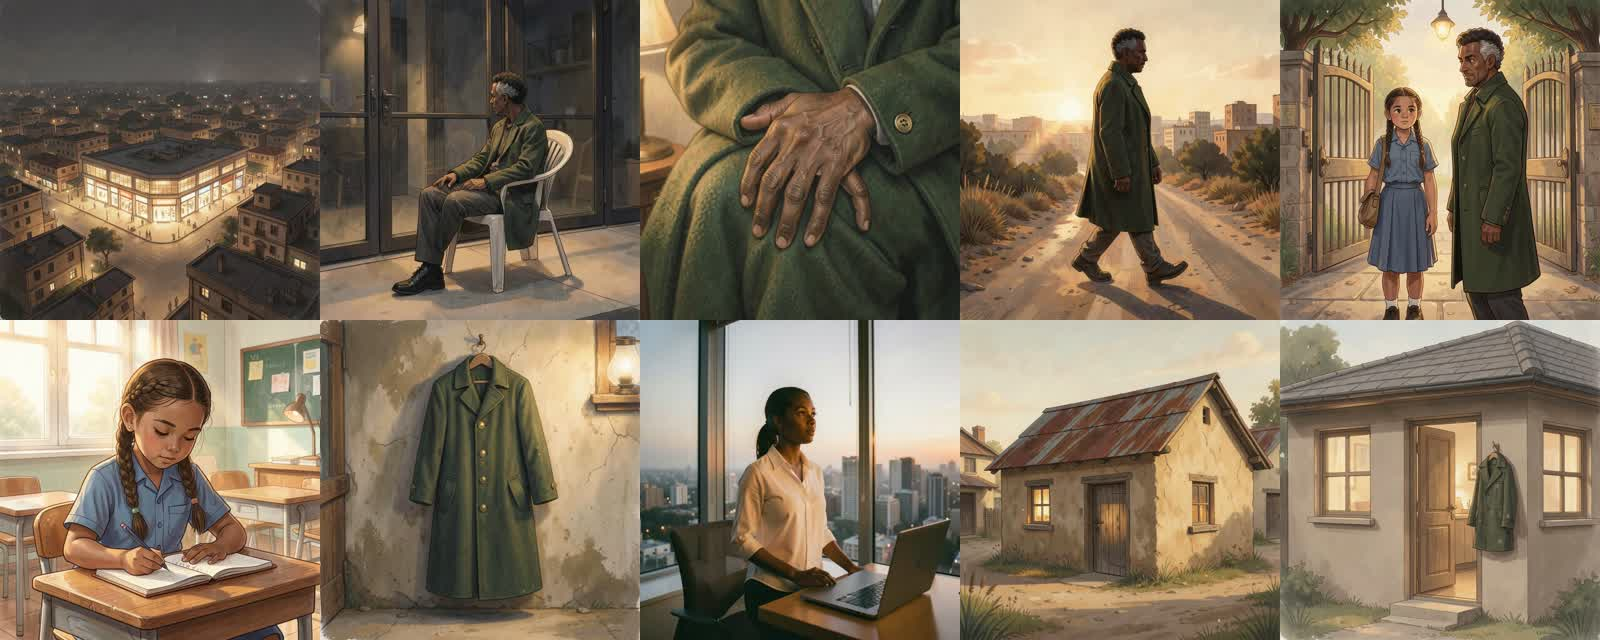
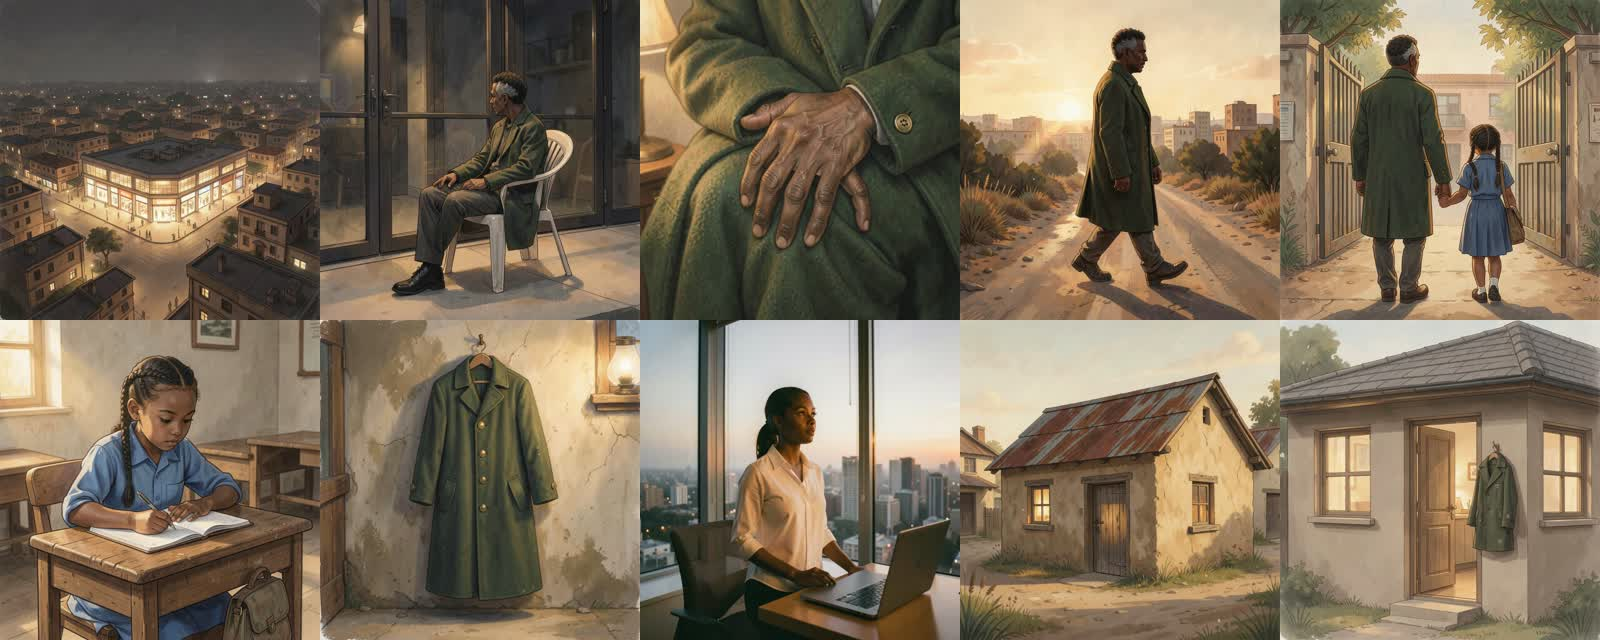
Keyframes final: shot 5 from behind, shot 6 without reference (skin tone); E10-E11

Changed region(s): [[0.0, 0.5, 0.2188, 1.0], [0.7812, 0.0, 1.0, 0.5]]

diff --git a/pipeline/keyframes.py b/pipeline/keyframes.py
@@ -120,14 +120,52 @@ def run_refs(only: str | None = None) -> None:
 
 # ---------------------------------------------------------------- keyframes
 
+def shot_refs(sb: dict, shot: dict) -> list[Path]:
+    """Reference images sent with a shot (none if the shot sets "use_references": false)."""
+    if not shot.get("use_references", True):
+        return []
+    return [ROOT / sb["characters"][c]["reference_image"] for c in shot.get("characters", [])]
+
+
 def shot_prompt(sb: dict, shot: dict) -> str:
     who = " ".join(f"The {c.replace('_', ' ')} is {sb['characters'][c]['description']}."
                    for c in shot.get("characters", []))
     # v1 said "Keep each person exactly as in the reference image(s)" and the model also copied
     # the reference POSE (girl standing in the classroom, shot 6). v2 limits what is copied (E9).
     keep = (" From the reference image(s) take only the face, hair, skin tone and clothes;"
-            " the pose, action and camera angle must follow this description.") if shot.get("characters") else ""
+            " the pose, action and camera angle must follow this description.")         if shot.get("characters") and shot.get("use_references", True) else ""
     return f"{shot['image_prompt']}. {who}{keep} {shot['size']} shot. {sb['style_block']}"
+
+
+VARIANT_SEED_STEP = 1000
+
+
+def run_variants(shot_id: int, n: int = 3) -> None:
+    """Make n candidates of one shot (seeds seed, seed+1000, ...) to choose from.
+
+    Each candidate is saved under exactly the name the normal run would use for that seed,
+    so choosing one = setting that shot's "seed" in storyboard.json; the next run is a cache hit.
+    """
+    load_env()
+    sb = load()
+    shot = next(s for s in sb["shots"] if s["id"] == shot_id)
+    refs = shot_refs(sb, shot)
+    prompt = shot_prompt(sb, shot)
+    images = []
+    for k in range(n):
+        seed = shot["seed"] + k * VARIANT_SEED_STEP
+        h = input_hash(MODEL, prompt, SIZE, seed, [file_hash(r) for r in refs])
+        out = KF_DIR / f"shot_{shot_id:02d}_{h}.jpg"
+        if out.exists():
+            print(f"  shot {shot_id:02d} seed {seed}: cached")
+        else:
+            print(f"  shot {shot_id:02d} seed {seed}: GENERATING")
+            flux(prompt, seed, out, refs, stage="keyframes:variants", shot=shot_id)
+        images.append(out)
+    sheet = KF_DIR / f"shot_{shot_id:02d}_variants.jpg"
+    contact_sheet(images, sheet, cols=n)
+    seeds = [shot["seed"] + k * VARIANT_SEED_STEP for k in range(n)]
+    print(f"  pick from {sheet.relative_to(ROOT).as_posix()} (left to right = seeds {seeds})")
 
 
 def run(only_shot: int | None = None) -> dict:
@@ -142,7 +180,7 @@ def run(only_shot: int | None = None) -> dict:
     manifest, new_calls, images = {}, 0, []
     for shot in sb["shots"]:
         sid = shot["id"]
-        refs = [ROOT / sb["characters"][c]["reference_image"] for c in shot.get("characters", [])]
+        refs = shot_refs(sb, shot)
         prompt = shot_prompt(sb, shot)
         h = input_hash(MODEL, prompt, SIZE, shot["seed"], [file_hash(r) for r in refs])
         out = KF_DIR / f"shot_{sid:02d}_{h}.jpg"

diff --git a/pipeline/__main__.py b/pipeline/__main__.py
@@ -5,6 +5,7 @@
     python -m pipeline radio           narration + placeholder music on black (user test 1)
     python -m pipeline refs            character reference candidates (pick one per character)
     python -m pipeline keyframes       one image per shot (cached: only changed shots regenerate)
+    python -m pipeline keyframes --shot 5 --variants 3   candidates for one shot; pick = set its seed
     python -m pipeline all             everything above that is ready, in order
 """
 from __future__ import annotations
@@ -20,6 +21,7 @@ def main() -> None:
     p.add_argument("command", choices=["validate", "narration", "radio", "refs", "keyframes", "all"])
     p.add_argument("--shot", type=int, help="narration/keyframes: only regenerate this shot")
     p.add_argument("--character", help="refs: only this character")
+    p.add_argument("--variants", type=int, help="keyframes --shot N: make this many candidates to pick from")
     args = p.parse_args()
 
     try:
@@ -48,7 +50,10 @@ def main() -> None:
     if args.command in ("keyframes", "all"):
         from pipeline import keyframes
         print("[keyframes]")
-        keyframes.run(only_shot=args.shot)
+        if args.variants and args.shot:
+            keyframes.run_variants(args.shot, args.variants)
+        else:
+            keyframes.run(only_shot=args.shot)
 
 
 if __name__ == "__main__":

diff --git a/EXPERIMENTS.md b/EXPERIMENTS.md
@@ -125,3 +125,22 @@ Evidence: matching `"experiment": "E…"` lines in `runs.jsonl`.
 - **v3 change:** shot 3 has no character reference and asks for "hand ... no face in the frame"; the child's description gets "with dark brown skin".
 - **v3 result:** shot 3 fixed (hand on the coat, no face). The girl in 5 and 6 is **still lighter than her reference**; shot 5 lost the from-behind framing again. Only 3 images were regenerated: the cache kept the other 7.
 - **Lessons:** (1) reference images transfer pose as well as identity unless told otherwise; (2) every prompt change has side effects on other shots, so change one thing and review the whole contact sheet; (3) skin-tone drift toward lighter is a repeated bias of this model (see E8) and needs checking on every shot with a person.
+
+## E10. Fixing shots 5 and 6: three seeds per shot, then one lighting hypothesis (24 Nov)
+
+- **Method:** new option `python -m pipeline keyframes --shot N --variants 3` makes candidates at seeds s, s+1000, s+2000, saved under the same hashed names a normal run would use, so **choosing = setting the shot's seed** and the next run is a cache hit. Brief's rule followed: three attempts per shot, then change approach.
+- **Shot 5** ("seen from behind, both with their backs to the camera and faces not visible ... girl with dark brown skin ..."): seed 105 got it right (father and daughter walking hand in hand through the gate, faces hidden). The other two seeds ignored "from behind". **Chosen: seed 105.** (`outputs/keyframes/shot_05_variants.jpg`)
+- **Shot 6, attempts 1-3** (skin tone written into the image prompt as well as the character sheet): pose right in 3/3, **skin still clearly lighter than the reference in 3/3** (`shot_06_variants_brightwindow.jpg`).
+- **Hypothesis:** the bright window backlight ("bright classroom, morning light from a window") washes the skin out.
+- **Change:** "a simple classroom ... soft warm side light", plus "deep brown skin". Same three seeds.
+- **Result:** marginally darker at best; still lighter than the reference in 3/3. **Hypothesis mostly rejected:** lighting is not the main cause.
+- **Status:** 6 attempts on shot 6. Next options: drop the reference image for this shot (test whether the reference, not the text, is what pulls the face toward a generic look), or accept the best candidate and document the limitation.
+
+## E11. Is the reference image what lightens the girl's skin? (24 Nov)
+
+- **Hypothesis:** in shot 6 the reference image, not the text or the light, pulls the face toward a lighter, generic look (E10 ruled out lighting).
+- **Change:** new per-shot switch `"use_references": false` (schema + keyframes stage). Shot 6 keeps the same text (character sheet description + "deep brown skin") but sends **no** input image. Same three seeds as E10.
+- **Result:** **3/3 now show a dark-brown-skinned Ethiopian girl** with braids, blue uniform and school bag (`outputs/keyframes/shot_06_variants.jpg` vs `shot_06_variants_brightwindow.jpg` / `_softlight.jpg`). Identity still reads as the same girl through the text (braids, uniform, bag); she appears only in shots 5 and 6, and in shot 5 from behind.
+- **Hypothesis confirmed.** Counter-intuitive: the reference sheet, which is supposed to *protect* identity, was the cause of the drift here, probably because a front-facing full-body reference gets re-rendered small and re-lit when the scene is a close seated pose.
+- **Decision:** shot 6 `use_references: false`, seed 2106 (medium close-up). Selecting it was a pure cache hit (0 new calls). References stay on for every other shot, where they keep the father's coat consistent.
+- **For the report:** this is the "suggested practice that did not beat my instinct" case: the reference sheet helped in 8 shots and hurt in 1.
